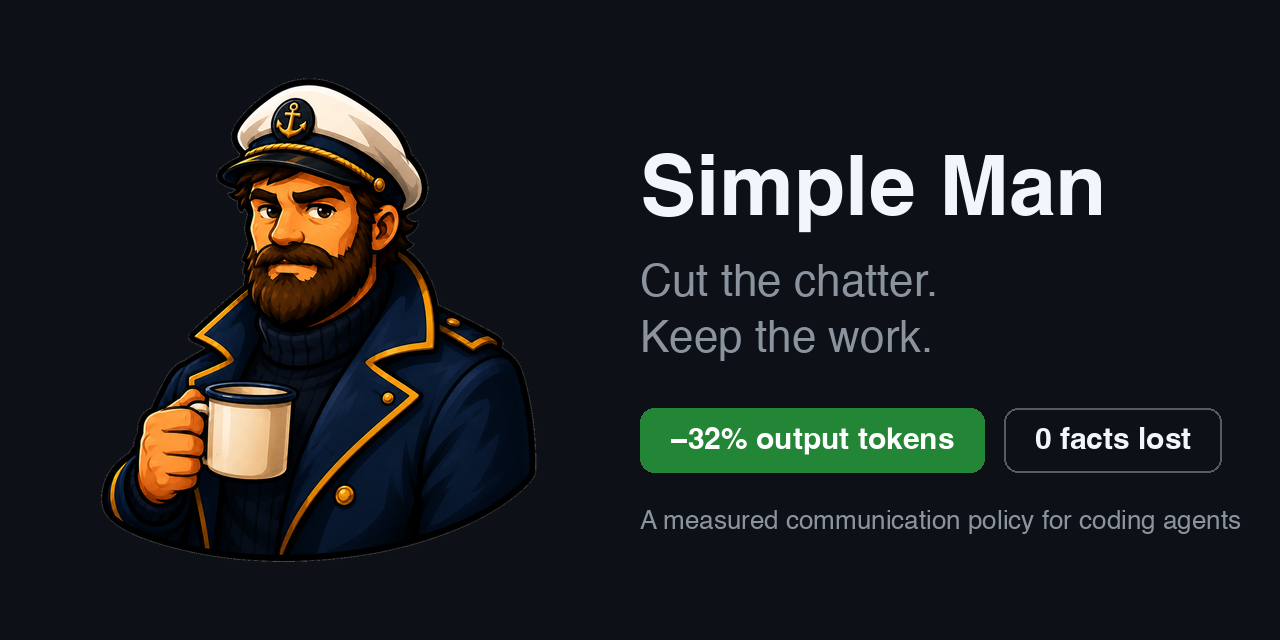
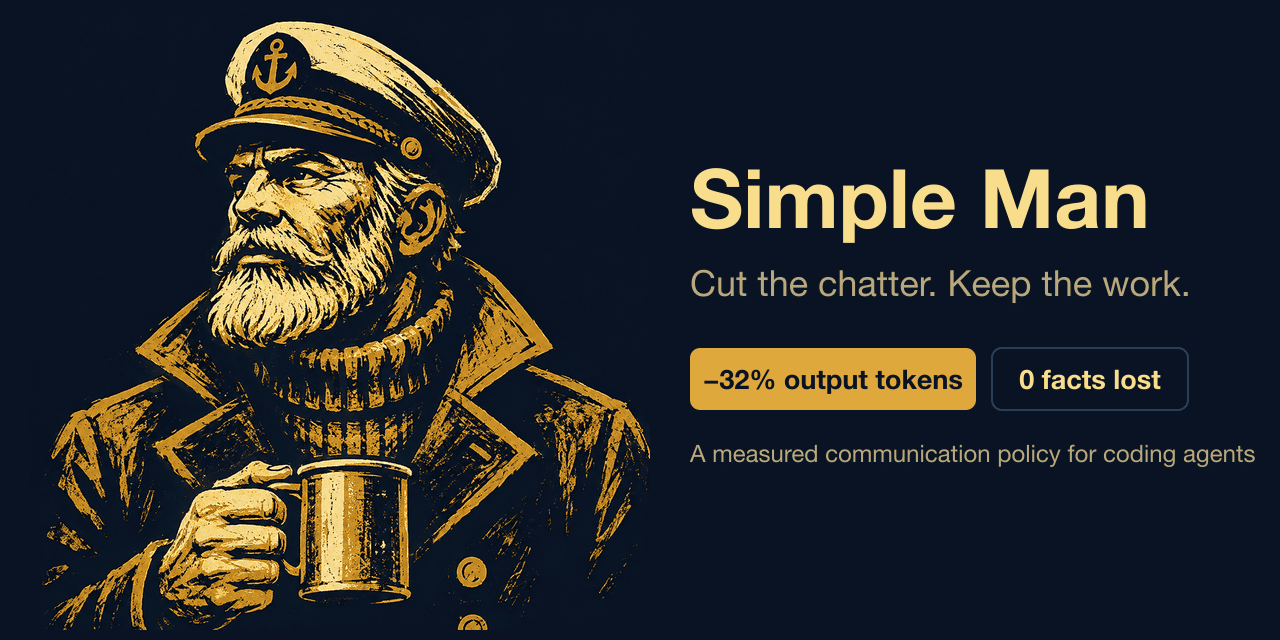
Repackage the README: linocut captain, Conrad epigraph, demo GIF (#35)
Reorder so the reader meets the pitch, the proof and the install command before five worked transcripts; replace the glossy icon with a two-ink linocut badge and match every asset to it; add a side-by-side demo GIF rebuilt from the committed benchmark answers by scripts/make_demo_gif.py.

No benchmark number changes — every figure is still rebuilt from the raw records by make bench-v3-check.

diff --git a/scripts/make_demo_gif.py b/scripts/make_demo_gif.py
@@ -1,0 +1,177 @@
+"""Rebuild assets/demo.gif from the two committed benchmark answers.
+
+Both panels reveal the same number of characters per frame, so the only
+difference on screen is how much there is to read. Requires rsvg-convert
+and ffmpeg:
+
+    python3 scripts/make_demo_gif.py
+
+Palette matches assets/icon.png, assets/benchmark.svg and assets/pipeline.svg.
+"""
+
+import os
+import shutil
+import subprocess
+import tempfile
+import textwrap
+
+ROOT = os.path.dirname(os.path.dirname(os.path.abspath(__file__)))
+GIF = os.path.join(ROOT, "assets", "demo.gif")
+
+BG = "#091324"; CARD = "#0e1a2e"; BORD = "#26364f"; MUT = "#c2b49a"
+GOLD = "#dfa83d"; CREAM = "#f8de8c"; DIM = "#7f7053"
+
+LEFT_RAW = """**Security Review Findings**
+
+**Finding 1: Broken Object-Level Authorization (IDOR) - GET /api/orders/:orderId**
+**Location:** routes/orders.js:52
+**Class:** CWE-639 (Authorization Bypass Through User-Controlled Key) / OWASP API1:2023 - Broken Object Level Authorization
+
+**Description:**
+The endpoint authenticates the request (valid session required) but does not authorize it - it never verifies that the fetched order.userId matches req.session.userId. Any authenticated user can enumerate or guess orderId values (sequential IDs, UUIDs leaked elsewhere, etc.) and retrieve other users' order data.
+
+**Impact:**
+- Horizontal privilege escalation: disclosure of other customers' order contents, shipping addresses, pricing, and any PII embedded in the order record.
+- If order IDs are sequential/predictable, mass scraping of all orders in the system is trivial.
+
+**Severity:** High
+
+**Finding 2: Broken Object-Level Authorization (IDOR) - PATCH /api/orders/:orderId/status**
+**Location:** routes/orders.js:80
+**Class:** CWE-639 / OWASP API1:2023 - Broken Object Level Authorization
+
+**Description:**
+Same missing ownership check as Finding 1, but on a state-mutating endpoint. Any authenticated user can modify the status field of any other user's order by supplying its orderId.
+
+**Impact:**
+- Unauthorized write access: an attacker can cancel, mark-shipped, mark-delivered, or otherwise tamper with other users' orders.
+- Business-logic abuse (e.g., prematurely marking orders "delivered" to trigger downstream automation, fraud, or dispute leverage).
+
+**Severity:** High
+
+**Finding 3: Missing Input Validation on status - PATCH /api/orders/:orderId/status**
+**Location:** routes/orders.js:80
+**Class:** CWE-20 (Improper Input Validation) / lack of allow-list enforcement for state transitions
+
+**Description:**
+The handler writes the incoming request value directly into order.status without validating it against an allow-list of legal states (e.g., pending, paid, shipped, cancelled, delivered) or enforcing valid state-transition rules.
+
+**Impact:**
+- Data integrity corruption: arbitrary/malformed strings can be persisted as order status, breaking downstream logic (fulfillment, reporting, notifications) that assumes a fixed enum.
+- Illegal state transitions (e.g., jumping from pending directly to delivered, or reverting a cancelled order) may bypass business rules and any invariants other code paths depend on.
+- Depending on how status is later used (rendered in UI/emails, used in DB queries, passed to downstream services), an unvalidated string could contribute to secondary issues (stored XSS if reflected unescaped, log injection, etc.) - worth checking consumers of this field.
+
+**Severity:** Medium (compounds with Finding 2 into High when combined - unauthorized *and* unvalidated writes)
+
+**Summary / Remediation Guidance**
+Both endpoints need an ownership check (order.userId === req.session.userId, returning 403/404) before returning or mutating the resource. The PATCH endpoint additionally needs status validated against a fixed enum/allow-list and, ideally, a state-transition guard rather than an unconstrained overwrite."""
+
+RIGHT_RAW = """**routes/orders.js:52 - GET /api/orders/:orderId**
+- IDOR: authenticated user can read any order by ID (no order.userId === req.session.userId check).
+- Fix: after fetch, if order.userId !== req.session.userId, return 403/404.
+
+**routes/orders.js:80 - PATCH /api/orders/:orderId/status**
+- IDOR: same missing ownership check - any authenticated user can modify any other user's order status.
+- Fix: same ownership check before update.
+- Unvalidated input: status accepted as arbitrary string, written directly to order.status - allows invalid/unexpected state values (data integrity risk, possible logic bypass if downstream code branches on status).
+- Fix: whitelist allowed status values (enum check) before update; reject with 400 otherwise."""
+
+WRAP = 60
+def prep(raw):
+    lines = []
+    for p in raw.split("\n"):
+        bold = p.startswith("**")
+        p = p.replace("**", "")
+        if not p:
+            lines.append(("", False)); continue
+        for i, w in enumerate(textwrap.wrap(p, WRAP) or [""]):
+            lines.append((("  " + w) if (i and p.startswith("-")) else w, bold))
+    return lines
+
+L, R = prep(LEFT_RAW), prep(RIGHT_RAW)
+LCH = sum(len(t) + 1 for t, _ in L)
+RCH = sum(len(t) + 1 for t, _ in R)
+LTOK, RTOK = 1215, 276
+
+W, H = 960, 540
+PX, PY, PW = 24, 96, 448          # panel geometry
+PH = 396
+LH, FS = 13.0, 10.5
+VIS = int((PH - 34) / LH)
+CPF = 46                          # chars revealed per frame, identical in both panels
+HOLD = 26
+
+def esc(s): return s.replace("&", "&amp;").replace("<", "&lt;").replace(">", "&gt;")
+
+def body(lines, chars):
+    """Return (visible_lines, done) revealing `chars` characters."""
+    out, used = [], 0
+    for t, b in lines:
+        if used >= chars: break
+        take = min(len(t), chars - used)
+        out.append((t[:take], b))
+        used += len(t) + 1
+    return out, used >= sum(len(t) + 1 for t, _ in lines)
+
+def panel(x, title, lines, chars, tok_total, done_color):
+    vis, done = body(lines, chars)
+    shown = int(tok_total * min(1.0, chars / (LCH if lines is L else RCH)))
+    scroll = max(0, len(vis) - VIS)
+    s = [f'<rect x="{x}" y="{PY}" width="{PW}" height="{PH}" rx="12" fill="{CARD}" stroke="{BORD}"/>']
+    s.append(f'<text x="{x+18}" y="{PY+26}" class="t">{esc(title)}</text>')
+    badge = f'{shown} tokens' if not done else f'{tok_total} tokens'
+    col = done_color if done else MUT
+    s.append(f'<text x="{x+PW-18}" y="{PY+26}" text-anchor="end" class="b" fill="{col}">{esc(badge)}</text>')
+    s.append(f'<clipPath id="c{x}"><rect x="{x+1}" y="{PY+36}" width="{PW-2}" height="{PH-44}"/></clipPath>')
+    s.append(f'<g clip-path="url(#c{x})">')
+    y = PY + 52
+    for i, (t, b) in enumerate(vis[scroll:]):
+        s.append(f'<text x="{x+18}" y="{y+i*LH:.1f}" class="m" fill="{CREAM if b else MUT}"'
+                 f'{" font-weight=\"600\"" if b else ""}>{esc(t)}</text>')
+    if done:
+        s.append(f'<text x="{x+18}" y="{y+len(vis[scroll:])*LH+6:.1f}" class="m" fill="{done_color}">done.</text>')
+    s.append('</g>')
+    return "\n".join(s), done
+
+OUT = tempfile.mkdtemp(prefix="simple-man-demo-")
+total_frames = -(-LCH // CPF) + HOLD
+for f in range(total_frames):
+    ch = min(LCH, (f + 1) * CPF)
+    lp, ldone = panel(PX, "no policy", L, ch, LTOK, MUT)
+    rp, rdone = panel(PX + PW + 16, "Simple Man", R, min(RCH, ch), RTOK, GOLD)
+    foot = ""
+    if rdone:
+        foot = (f'<text x="{W/2}" y="{H-16}" text-anchor="middle" class="f" fill="{MUT}">'
+                f'Simple Man finished {esc("−")}77% earlier {esc("·")} same two findings, same locations, same fixes</text>'
+                if not ldone else
+                f'<text x="{W/2}" y="{H-16}" text-anchor="middle" class="f" fill="{GOLD}">'
+                f'1,215 {esc("→")} 276 tokens {esc("·")} zero facts lost</text>')
+    svg = f'''<svg xmlns="http://www.w3.org/2000/svg" width="{W}" height="{H}" viewBox="0 0 {W} {H}">
+<style>
+text {{ font-family: "Menlo", "DejaVu Sans Mono", monospace; }}
+.t {{ font-size: 13px; font-weight: 700; fill: {CREAM}; font-family: -apple-system, "Helvetica", sans-serif; }}
+.b {{ font-size: 11px; font-weight: 600; font-family: -apple-system, "Helvetica", sans-serif; }}
+.m {{ font-size: {FS}px; }}
+.p {{ font-size: 13px; fill: {CREAM}; }}
+.f {{ font-size: 12.5px; font-weight: 600; font-family: -apple-system, "Helvetica", sans-serif; }}
+</style>
+<rect width="{W}" height="{H}" fill="{BG}"/>
+<text x="{PX}" y="40" class="p"><tspan fill="{GOLD}">$</tspan> claude "security review of routes/orders.js"</text>
+<text x="{PX}" y="64" style="font-size:11px;fill:{DIM};font-family:-apple-system,sans-serif;">same model (claude-sonnet-5) {esc("·")} same prompt {esc("·")} same streaming rate</text>
+{lp}
+{rp}
+{foot}
+</svg>'''
+    svg_path = f"{OUT}/f{f:04d}.svg"
+    open(svg_path, "w").write(svg)
+    subprocess.run(["rsvg-convert", "-w", str(W), "-h", str(H), svg_path,
+                    "-o", f"{OUT}/f{f:04d}.png"], check=True)
+
+pal = f"{OUT}/palette.png"
+subprocess.run(["ffmpeg", "-v", "error", "-y", "-framerate", "12", "-i", f"{OUT}/f%04d.png",
+                "-vf", "palettegen=max_colors=64", pal], check=True)
+subprocess.run(["ffmpeg", "-v", "error", "-y", "-framerate", "12", "-i", f"{OUT}/f%04d.png",
+                "-i", pal, "-lavfi", "paletteuse=dither=bayer:bayer_scale=3",
+                "-loop", "0", GIF], check=True)
+shutil.rmtree(OUT)
+print(f"{GIF}: {total_frames} frames, {os.path.getsize(GIF) / 1e6:.1f} MB")

diff --git a/README.md b/README.md
@@ -2,6 +2,12 @@
   <img src="assets/icon.png" alt="Simple Man icon" width="160">
 </p>
 
+<p align="center">
+  <em>The more general actualities of the day required no comment —<br>
+  because facts can speak for themselves with overwhelming precision.</em><br>
+  <sub>Joseph Conrad, <em>Typhoon</em> (1902) — himself a master mariner</sub>
+</p>
+
 # Simple Man
 
 > Cut the chatter. Keep the work.
@@ -17,12 +23,35 @@ just happened, suggestions nobody asked for, three paragraphs around one test.
 
 Simple Man is the other voice at the helm — a captain who has run ships for
 decades and tells the crew exactly what they need: the blocker, the fix, the
-risk. Nothing else. Less to read, zero flattery, and nothing you act on gets
-lost.
+risk. Nothing else. The captain is the character; under the hood it is a
+measured policy of professional communication — short, factual, to the point —
+tested on 1,793 preregistered live calls, raw records committed.
 
-The captain is the character; under the hood it is a measured policy of
-professional communication — short, factual, to the point — tested on 1,793
-preregistered live calls, raw records committed.
+At Trafalgar, Nelson dictated *England confides that every man will do his
+duty*; his signal lieutenant swapped `expects` for `confides` — one hoist of
+flags instead of nine, the order untouched. That is the whole trade this skill
+makes, priced in tokens instead of flags.
+
+## What you get
+
+- **Answers a third shorter.** −32.4% output tokens across 84 real cases —
+  measured, not advertised.
+- **Zero lost facts.** Every benchmark case ships a checklist of facts the
+  reader acts on — blockers, failed checks, exact identifiers, risks. Simple
+  Man keeps every required fact in exactly as many cases as answers written
+  with no length pressure at all.
+- **Findings that carry their fix.** Location, consequence, one-line fix —
+  nothing to follow up on.
+- **It knows when *not* to compress.** A requested format is a contract:
+  exact counts, order and shape are checked before sending. Tutorials,
+  teaching explanations and detailed reports are written in full — the
+  shipped skill description triggered with zero false activations on them.
+
+## See it
+
+<p align="center">
+  <img src="assets/demo.gif" alt="Two panes streaming the same security review at the same rate: the no-policy answer runs to 1,215 tokens and keeps scrolling, Simple Man finishes at 276 tokens with the same two findings, locations and fixes." width="900">
+</p>
 
 Same model (`claude-sonnet-5`), same prompt. Left is what you read today:
 
@@ -340,21 +369,6 @@ Notes:
 All pairs above are real captured answers from the committed benchmark run —
 nothing is hand-written for this README. Raw records:
 [`evals/releases/v0.3.1/`](./evals/releases/v0.3.1/report.md).
-
-## What you get
-
-- **Answers a third shorter.** −32.4% output tokens across 84 real cases —
-  measured, not advertised.
-- **Zero lost facts.** Every benchmark case ships a checklist of facts the
-  reader acts on — blockers, failed checks, exact identifiers, risks. Simple
-  Man keeps every required fact in exactly as many cases as answers written
-  with no length pressure at all.
-- **Findings that carry their fix.** Location, consequence, one-line fix —
-  nothing to follow up on.
-- **It knows when *not* to compress.** A requested format is a contract:
-  exact counts, order and shape are checked before sending. Tutorials,
-  teaching explanations and detailed reports are written in full — the
-  shipped skill description triggered with zero false activations on them.
 
 ## Install
 
